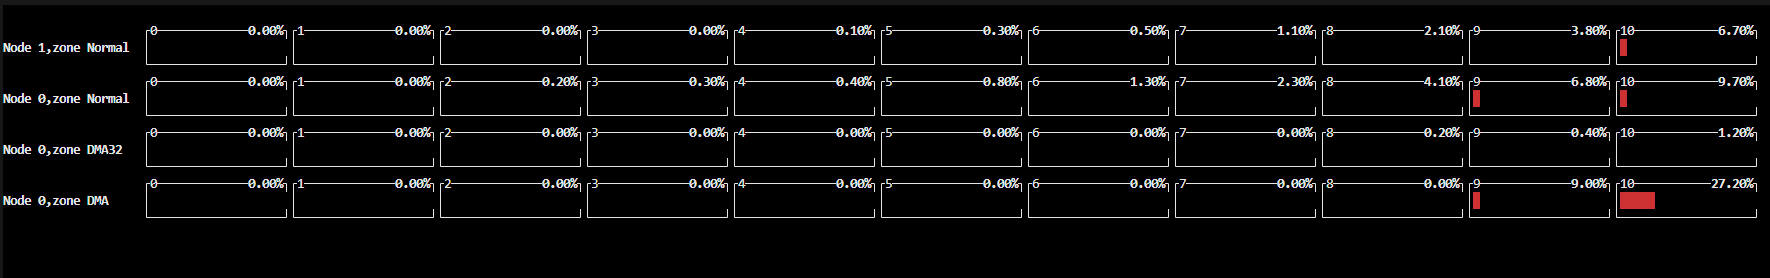
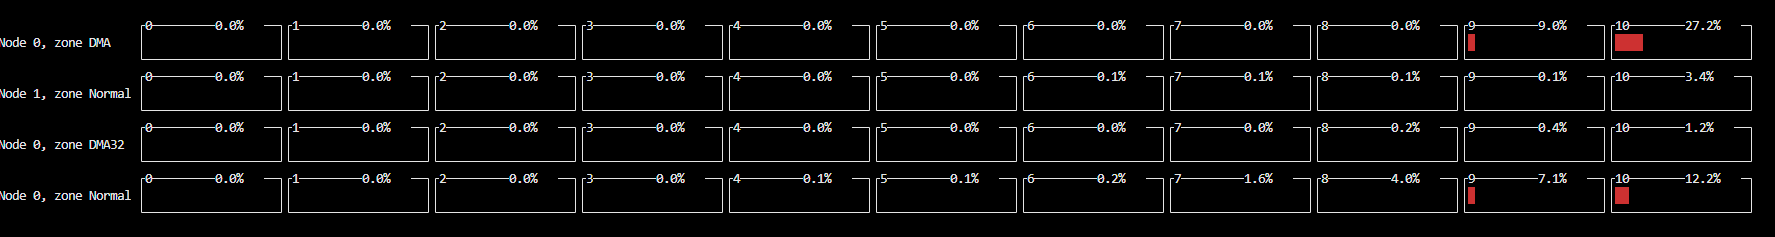
添加-v参数

Changed region(s): [[0.0, 0.0886, 0.9944, 0.9156], [0.0, 0.7089, 0.0621, 0.7384]]

diff --git a/src/extfrag_user.py b/src/extfrag_user.py
@@ -5,23 +5,54 @@ import curses
 import sys
 from extfrag import ExtFrag
 
+
 def generate_fragmentation_bar(score, max_length=20):
     """生成用于显示碎片化程度的条形图"""
     proportion = min(max(score, 0), 1)
     bar_length = int(proportion * max_length)
     return '#' * bar_length + '-' * (max_length - bar_length)
+def createBar(height,width,y,x,title:str):
+        winbar = curses.newwin(height,width,y,x)
+        winbar.border(0)
+        winbar.addstr(0,1,title)
+        winbar.refresh()
+        return winbar
+
+def setProgress(win,progress):
+        h,w = win.getmaxyx()
+        char_max_w= w-3
+        displayclear = "█"*char_max_w 
+        win.addstr(1, 1, "{}".format(displayclear),curses.color_pair(1))
+        rangex = (char_max_w / float(100)) * progress
+        pos = int(rangex)
+        res = 0
+        if pos==0:
+            res = 1
+            pos+=1
+        display = "█"*pos
+        numstr=str(format(progress,'.1f'))
+        win.addstr(0,w-9,"{}%".format(numstr)+" "*1)
+        if  res==0:
+            win.addstr(1, 1, "{}".format(display),curses.color_pair(2))
+            win.refresh()
+        else:
+            win.refresh()
+
 def main(screen):
     curses.curs_set(0)  # 隐藏光标 
     screen.nodelay(True) 
+    curses.noecho()
+    curses.cbreak()
     screen.clear()
     curses.start_color()
-    curses.init_pair(1, curses.COLOR_GREEN, curses.COLOR_BLACK)
+    curses.init_pair(1, curses.COLOR_BLACK, curses.COLOR_BLACK)
     curses.init_pair(2, curses.COLOR_RED, curses.COLOR_BLACK)
-    curses.init_pair(3, curses.COLOR_YELLOW, curses.COLOR_BLACK)
+    curses.init_pair(3, curses.COLOR_GREEN, curses.COLOR_BLACK)
     curses.init_pair(4, curses.COLOR_BLUE, curses.COLOR_BLACK)
     curses.init_pair(5, curses.COLOR_MAGENTA, curses.COLOR_BLACK)
     curses.init_pair(6, curses.COLOR_CYAN, curses.COLOR_BLACK)
     curses.init_pair(7, curses.COLOR_WHITE, curses.COLOR_BLACK)
+
 
     #? Argument parser ------------------------------------------------------------------------------->
     try:
@@ -33,11 +64,12 @@ def main(screen):
             f'    -n, --node_info       Output node informations\n'\
             f'    -i, --node_id         Specify Node ID to get zone information\n'\
             f'    -c, --comm            Filter by zone_comm name\n'\
-            f'    -e, --score_a         Only output extfrag_index\n'\
-            f'    -u, --score_b         Only output unusable_index\n'\
+            f'    -e, --extfrag_index   Only output extfrag_index\n'\
+            f'    -u, --unusable_index  Only output unusable_index\n'\
             f'    -s, --output_count    Output fragmentation count\n'\
             f'    -b, --bar             Display fragmentation bar\n'\
             f'    -z, --zone_info       Display detailed zone information\n'\
+            f'    -v, --view            Display fragmentation figure\n'\
             f'    -h, --help            Show this help message and exit\n'
             msg = f"Please Crtl + C  exiting......\n\n"
             screen.addstr(0, 0, header1)
@@ -51,11 +83,12 @@ def main(screen):
                 'node_info': False,
                 'node_id': None,
                 'comm': None,
-                'score_a': False,
-                'score_b': False,
+                'extfrag_index': False,
+                'unusable_index': False,
                 'output_count': False,
                 'bar': False,
                 'zone_info': False,
+                'view':False
             }
             for i in range(1, len(sys.argv)):
                 arg = sys.argv[i]
@@ -67,22 +100,24 @@ def main(screen):
                     args['node_id'] = int(sys.argv[i + 1])
                 elif arg in ['-c', '--comm']:
                     args['comm'] = sys.argv[i + 1]
-                elif arg in ['-e', '--score_a']:
-                    args['score_a'] = True
-                elif arg in ['-u', '--score_b']:
-                    args['score_b'] = True
+                elif arg in ['-e', '--extfrag_index']:
+                    args['extfrag_index'] = True
+                elif arg in ['-u', '--unusable_index']:
+                    args['unusable_index'] = True
                 elif arg in ['-s', '--output_count']:
                     args['output_count'] = True
                 elif arg in ['-b', '--bar']:
                     args['bar'] = True
                 elif arg in ['-z', '--zone_info']:
                     args['zone_info'] = True
+                elif arg in ['-v', '--view']:
+                    args['view'] = True
 
             extfrag = ExtFrag(
             interval=args['delay'],
             output_count=args['output_count'],
-            output_score_a=args['score_a'],
-            output_score_b=args['score_b'],
+            output_extfrag_index=args['extfrag_index'],
+            output_unusable_index=args['unusable_index'],
             zone_info=args['zone_info'])
 
             while True:
@@ -130,10 +165,10 @@ def main(screen):
                             zone_data = extfrag.get_zone_data(args['node_id'])
                         else:
                             zone_data = extfrag.get_zone_data()
-                        if args['score_a']:
+                        if args['extfrag_index']:
                             header =f"{'ZONE_COMM':>5} {'ZONE_PFN':>15} {'SUM_PAGES':>20} {'FACT_PAGES':>20} " \
                                 f"{'ORDER':>15} {'TOTAL':>20} {'SUITABLE':>20} {'FREE':>20} {'NODE_ID':>20} {'extfrag_index':>25}"
-                        elif args['score_b']:
+                        elif args['unusable_index']:
                             header =  f"{'ZONE_COMM':>5} {'ZONE_PFN':>15} {'SUM_PAGES':>20} {'FACT_PAGES':>20} " \
                                 f"{'ORDER':>15} {'TOTAL':>20} {'SUITABLE':>20} {'FREE':>20} {'NODE_ID':>20} {'unusable_index':>25} "
                         else:
@@ -150,14 +185,14 @@ def main(screen):
                                 continue   
                 
                             for zone in zones:
-                                color = curses.color_pair(1)
+                                color = curses.color_pair(3)
                                 if zone['order'] > 5 and float(zone['scoreB']) > 0.5:
                                     color = curses.color_pair(2)  # 红色，表示高风险
-                                if args['score_a'] :
+                                if args['extfrag_index'] :
                                     line = f"{zone['comm']:^9} {zone['zone_pfn']:^20} {zone['spanned_pages']:^22} " \
                                     f"{zone['present_pages']:^18} {zone['order']:^15} {zone['free_blocks_total']:^25} " \
                                     f"{zone['free_blocks_suitable']:^15} {zone['free_pages']:^25} {zone['node_id']:^15} {zone['scoreA']:^20} "
-                                elif  args['score_b']:
+                                elif  args['unusable_index']:
                                     line = f"{zone['comm']:^9} {zone['zone_pfn']:^20} {zone['spanned_pages']:^22} " \
                                     f"{zone['present_pages']:^18} {zone['order']:^15} {zone['free_blocks_total']:^25} " \
                                     f"{zone['free_blocks_suitable']:^15} {zone['free_pages']:^25} {zone['node_id']:^15} {zone['scoreB']:^20} "
@@ -166,7 +201,7 @@ def main(screen):
                                     f"{zone['present_pages']:^18} {zone['order']:^15} {zone['free_blocks_total']:^25} " \
                                     f"{zone['free_blocks_suitable']:^15} {zone['free_pages']:^25} {zone['node_id']:^15} {zone['scoreA']:^20} {zone['scoreB']:^25}"
                                 if args['bar']:
-                                    score = float(zone.get("scoreA" if args['score_a'] else "scoreB", 0))
+                                    score = float(zone.get("scoreA" if args['extfrag_index'] else "scoreB", 0))
                                     frag_bar = generate_fragmentation_bar(score)
                                     line += f" {frag_bar:^40}\n" 
                                 else:
@@ -178,15 +213,60 @@ def main(screen):
                                     else:
                                         screen.addstr(row, 0, line[:max_cols - 1],color)
                                         row += 1
+                            
+                    elif args['view']:
+                            curses.initscr()
+                            # 获取并打印关键信息
+                            if args['node_id'] is not None:
+                                view_data = extfrag.get_view_data(args['node_id'])
+                                zone_data = extfrag.get_zone_data(args['node_id'])
+                            else:
+                                view_data = extfrag.get_view_data()
+                                zone_data = extfrag.get_zone_data()
+                            
+                            height, width = screen.getmaxyx()
+                            if height < 10 or width < 240:
+                                screen.addstr(0, 0, "Window size too small!")
+                                screen.refresh()
+                                screen.getch()
+                                return
+                            y_pos =1
+                            row=2  
+                            bars = {}
+                            progress_bars={}
+                            for (node_id, comm), zones in view_data.items():
+                                    if args['comm'] and comm != args['comm']:
+                                        continue
+                                    _str = f"Node {node_id}, zone {comm}"
+                                    screen.addstr(row, 0, _str)
+                                    for i in range(11):  
+                                        pbar = createBar(3, 21, y_pos, 22 + (i * 21), str(i))
+                                        setProgress(pbar, 0) 
+                                        bars[(node_id, comm, i)] = pbar   # 保存小窗口
+                                    y_pos+=3
+                                    row+=3
+                            for comm, zones in zone_data.items():
+                                if args['comm'] and comm != args['comm']:
+                                        continue
+                                for zone in zones:
+                                    node_id = zone['node_id']
+                                    comm = zone['comm']
+                                    order = zone['order']
+                                    progress = zone['scoreB'].strip().split()[0]
+                                    progress = float(progress) 
+                                    key = (node_id, comm, order)
+                                    if key in bars:
+                                            progress*=100
+                                            setProgress(bars[key], progress)  # 更新进度条
                     else:
                         # 获取并打印关键信息
                         if args['node_id'] is not None:
                             zone_data = extfrag.get_zone_data(args['node_id'])
                         else:
                             zone_data = extfrag.get_zone_data()
-                        if args['score_a']:
+                        if args['extfrag_index']:
                             header =f"{'ZONE_COMM':<30}  {'NODE_ID':<23} {'ORDER':>40} {'extfrag_index':>52} "
-                        elif args['score_b']:
+                        elif args['unusable_index']:
                             header = f"{'ZONE_COMM':<30}  {'NODE_ID':<23} {'ORDER':>40}  {'unusable_index':>52} "
                         else:
                             header = f"{'ZONE_COMM':<30}  {'NODE_ID':<23} {'ORDER':>40} {'extfrag_index':>52} {'unusable_index':>30} "
@@ -200,17 +280,17 @@ def main(screen):
                             if  args['comm'] and comm !=  args['comm']:
                                 continue  
                             for zone in zones:
-                                color = curses.color_pair(1)
+                                color = curses.color_pair(3)
                                 if zone['order'] > 5 and float(zone['scoreB']) > 0.5:
                                     color = curses.color_pair(2)  # 红色，表示高风险
-                                if args['score_a'] :
+                                if args['extfrag_index'] :
                                     line = f"{zone['comm']:^7}  {zone['node_id']:^55}  {zone['order']:^55} {zone['scoreA']:^45} "
-                                elif  args['score_b']:
+                                elif  args['unusable_index']:
                                     line = f"{zone['comm']:^7}  {zone['node_id']:^55}  {zone['order']:^55} {zone['scoreB']:^45} "
                                 else:
                                     line = f"{zone['comm']:^7}  {zone['node_id']:^55}  {zone['order']:^55} {zone['scoreA']:^45}  {zone['scoreB']:^15} "
                                 if  args['bar']:
-                                    score = float(zone.get("scoreA" if args['score_a'] else "scoreB", 0))
+                                    score = float(zone.get("scoreA" if args['extfrag_index'] else "scoreB", 0))
                                     frag_bar = generate_fragmentation_bar(score)
                                     line += f" {frag_bar:^40}\n"  
                                 else:
@@ -226,6 +306,7 @@ def main(screen):
 
                     screen.refresh()
                     time.sleep(args['delay'])
+               
 
  
     except KeyboardInterrupt:

diff --git a/src/extfrag.py b/src/extfrag.py
@@ -5,10 +5,10 @@ import time
 import ctypes
 
 class ExtFrag:
-    def __init__(self, interval=2, output_score_a=False, output_score_b=False,output_count=False,zone_info=False):
+    def __init__(self, interval=2, output_extfrag_index=False, output_unusable_index=False,output_count=False,zone_info=False):
         self.interval = interval
-        self.output_score_a = output_score_a
-        self.output_score_b = output_score_b
+        self.output_extfrag_index = output_extfrag_index
+        self.output_unusable_index = output_unusable_index
         self.output_count = output_count
         self.zone_info = zone_info
         
@@ -22,15 +22,15 @@ class ExtFrag:
         self.b["delay_map"][delay_key] = ctypes.c_int(interval)
 
     
-    def calculate_scoreA(self, score_a):
-        score_a_int_part = int(score_a) // 1000
-        score_a_dec_part = int(score_a) % 1000
-        return f"{score_a_int_part:2d}.{score_a_dec_part:03d}"
+    def calculate_scoreA(self, extfrag_index):
+        extfrag_index_int_part = int(extfrag_index) // 1000
+        extfrag_index_dec_part = int(extfrag_index) % 1000
+        return f"{extfrag_index_int_part:2d}.{extfrag_index_dec_part:03d}"
 
-    def calculate_scoreB(self, score_b):
-        score_b_int_part = int(score_b) // 1000
-        score_b_dec_part = int(score_b) % 1000
-        return f"{score_b_int_part:2d}.{score_b_dec_part:03d}"
+    def calculate_scoreB(self, unusable_index):
+        unusable_index_int_part = int(unusable_index) // 1000
+        unusable_index_dec_part = int(unusable_index) % 1000
+        return f"{unusable_index_int_part:2d}.{unusable_index_dec_part:03d}"
 
     def get_zone_data(self,filter_node_id=None):
         zone_data_dict = {}
@@ -61,7 +61,26 @@ class ExtFrag:
                 zone_data_dict[comm].sort(key=lambda x: x['order'])
 
         return zone_data_dict
-   
+    def get_view_data(self, filter_node_id=None):
+        zone_data_dict = {}
+        zone_map = self.b["zone_map"]
+
+        for key, value in zone_map.items():
+            comm = value.name.decode('utf-8', 'replace').rstrip('\x00')
+            node_id = value.node_id
+            
+            if filter_node_id is not None and node_id != filter_node_id:
+                continue
+
+            data = {
+                'scoreB': self.calculate_scoreB(value.score_b),
+                'order': value.order,
+            }
+            
+            # 使用 (node_id, comm) 作为键
+            zone_data_dict[(node_id, comm)] = data
+
+        return zone_data_dict
 
     def get_node_data(self):
         node_data_dict = {}
